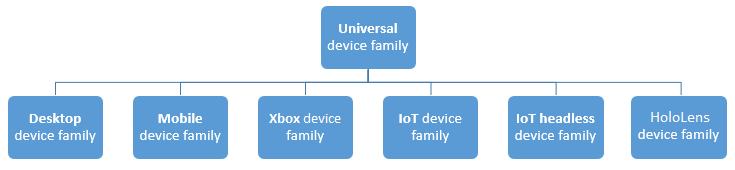
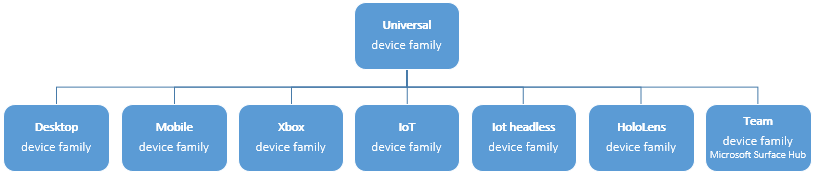
Merged PR 4106: add teams device family (surface hub)
add teams device family (surface hub)

diff --git a/windows-apps-src/get-started/universal-application-platform-guide.md b/windows-apps-src/get-started/universal-application-platform-guide.md
@@ -4,7 +4,7 @@ title: Intro to the Universal Windows Platform
 description: Learn about Universal Windows Platform (UWP) apps that can run across a wide variety of devices that run Windows 10.
 ms.assetid: 59849197-B5C7-493C-8581-ADD6F5F8800B
 ms.author: twhitney
-ms.date: 02/08/2017
+ms.date: 10/27/2017
 ms.topic: article
 ms.prod: windows
 ms.technology: uwp
